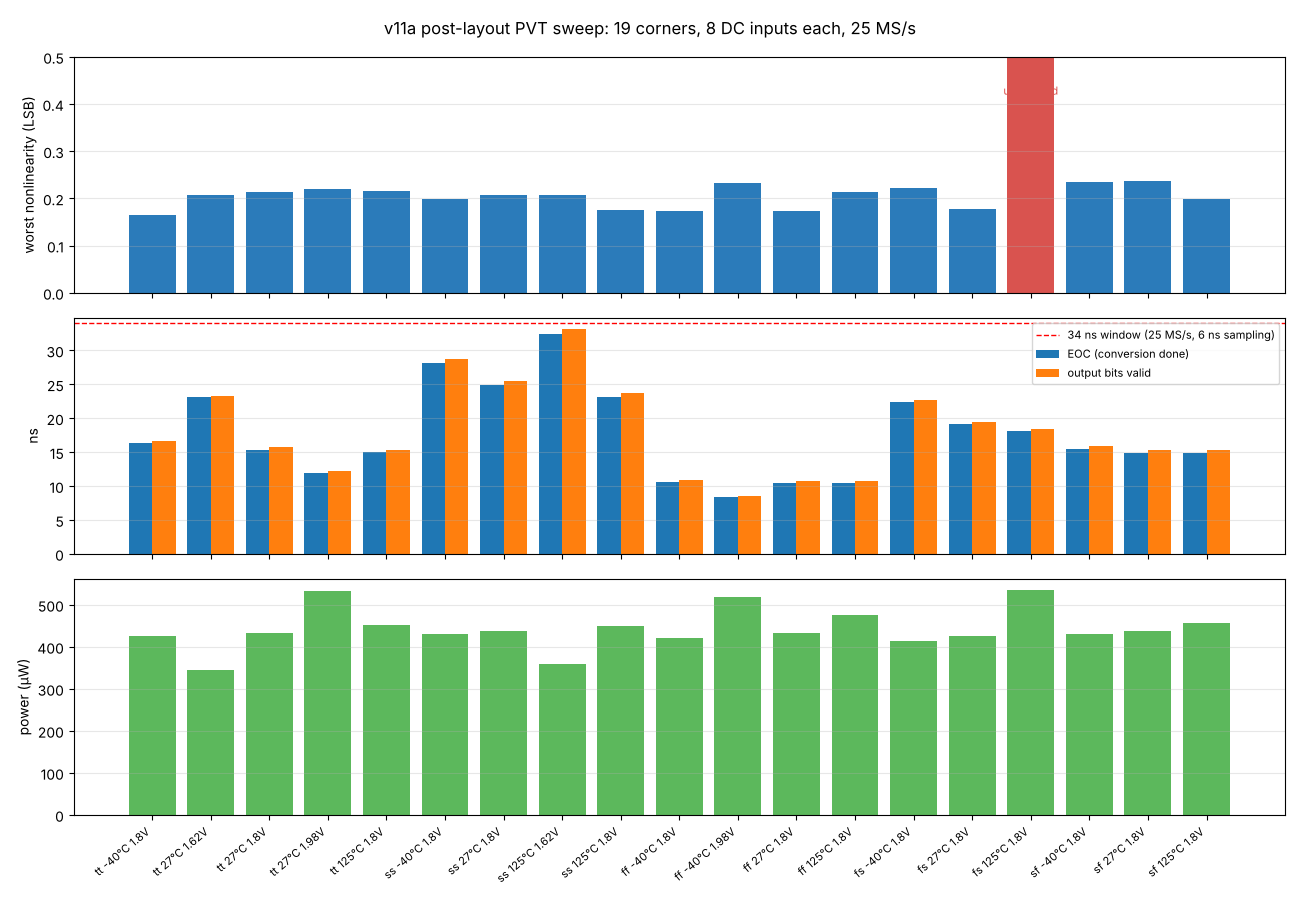
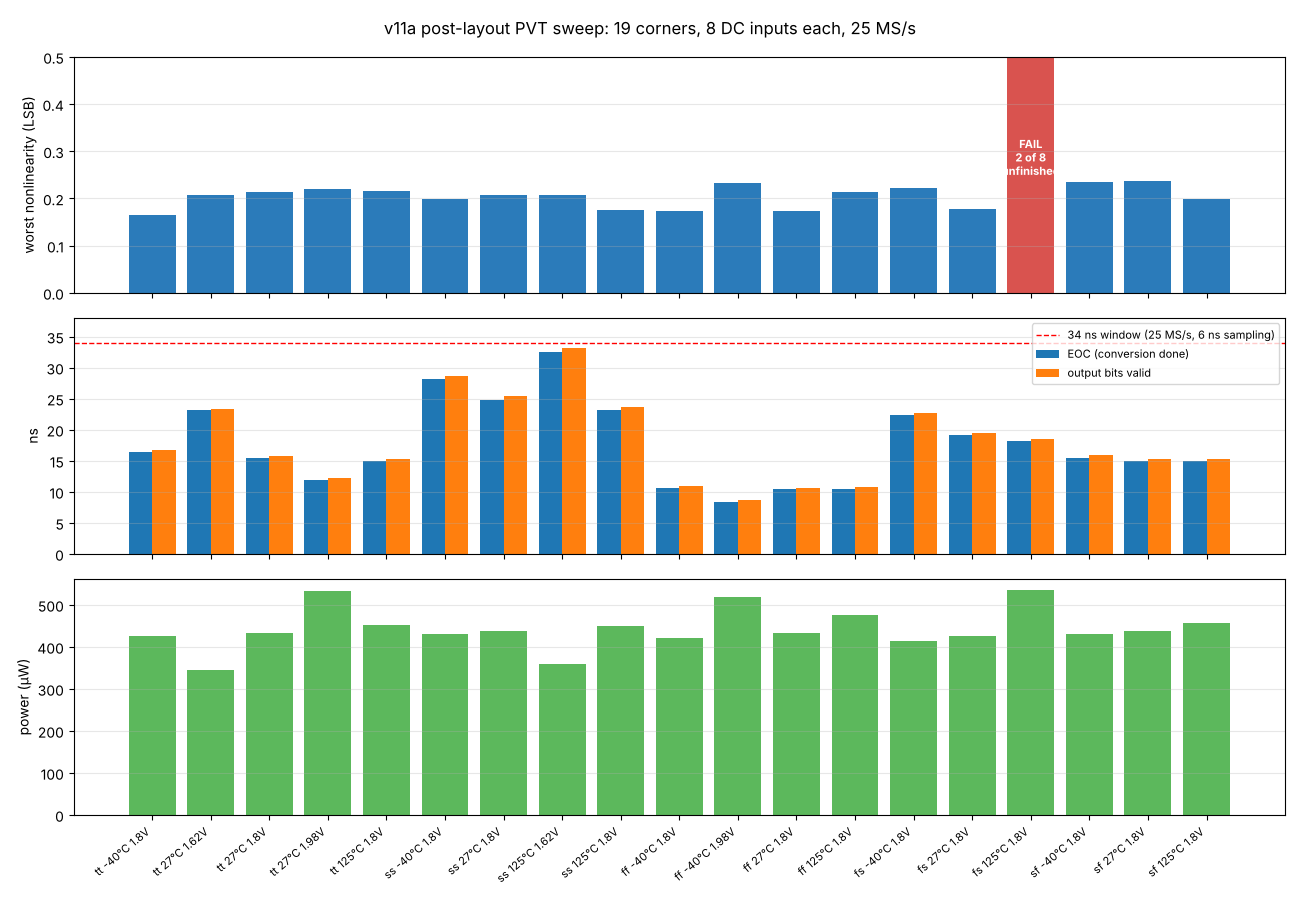
Fix PVT plot failure label
Claude-Session: https://claude.ai/code/session_01Pj26PxSDYUZcSKhXfJ7jSo

diff --git a/results/corners/make_plots.py b/results/corners/make_plots.py
@@ -40,9 +40,9 @@ open('/tmp/pvt_table.md','w').write('\n'.join(rows)+'\n')
 x=np.arange(len(P)); fig,ax=plt.subplots(3,1,figsize=(13,9),sharex=True)
 ok=miss==0
 ax[0].bar(x[ok],inl[ok],color='#2b7bba'); ax[0].bar(x[~ok],np.minimum(inl[~ok],0.5),color='#d9534f'); ax[0].set_ylim(0,0.5); ax[0].set_ylabel('worst nonlinearity (LSB)')
-for i in np.where(~ok)[0]: ax[0].text(i,0.42,'FAIL\n%d of 8\nunfinished'%miss[i],ha='center',fontsize=8,color='#d9534f')
+for i in np.where(~ok)[0]: ax[0].text(i,0.25,'FAIL\n%d of 8\nunfinished'%miss[i],ha='center',fontsize=8,color='white',fontweight='bold')
 ax[1].bar(x-0.2,tc,0.4,label='EOC (conversion done)'); ax[1].bar(x+0.2,tv,0.4,label='output bits valid'); ax[1].axhline(34,c='r',ls='--',lw=1,label='34 ns window (25 MS/s, 6 ns sampling)')
-ax[1].set_ylabel('ns'); ax[1].legend(fontsize=8,loc='upper right')
+ax[1].set_ylabel('ns'); ax[1].set_ylim(0,38); ax[1].legend(fontsize=8,loc='upper right')
 ax[2].bar(x,pw,color='#5cb85c'); ax[2].set_ylabel('power (µW)')
 ax[2].set_xticks(x); ax[2].set_xticklabels(lab,rotation=40,ha='right',fontsize=8)
 for a in ax: a.grid(axis='y',alpha=.3)
